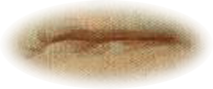
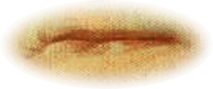
MN: face_mashup_2 color and image contrast adjustments

Changed region(s): [[0.1127, 0.2022, 0.9014, 0.809], [0.8169, 0.3596, 0.8451, 0.382]]

diff --git a/src/demo/face_mashup_2.js b/src/demo/face_mashup_2.js
@@ -49,8 +49,6 @@ var imgNamesEyesRight = [
   'washington_eye_right_fuzzy.png',
   'washington_eye_right_round.png',
   'washington_eye_right_square.png',
-  // 'yoda_eye_right.png',
-  // 'yoda_eye_right_fuzzy.png'
 ];
 
 var imgNamesEyesLeft = [
@@ -64,8 +62,6 @@ var imgNamesEyesLeft = [
   'washington_eye_left_fuzzy.png',
   'washington_eye_left_round.png',
   'washington_eye_left_square.png',
-  // 'yoda_eye_left_fuzzy.png',
-  // 'yoda_left_eye.png'
 ];
 
 var imgNamesMouths = [
@@ -74,10 +70,11 @@ var imgNamesMouths = [
   'marilyn_mouth.png',
   'marilyn_mouth_round.png',
   'marilyn_mouth_square.png',
+  'mona_mouth_fuzzy.png',
+  'mona_mouth_square.png',
   'washington_mouth_fuzzy.png',
   'washington_mouth_round.png',
   'washington_mouth_square.png',
-  // 'yoda_mouth_circle.png'
 ];
 
 var imgNamesNoses = [
@@ -87,12 +84,10 @@ var imgNamesNoses = [
   "marilyn_nose_fuzzy.png",
   "mona_nose_fuzzy.png",
   "mona_nose_square.png",
-  "nixon_nose.png",
-  "nixon_nose_fuzzy.png",
+  // "nixon_nose.png",
+  // "nixon_nose_fuzzy.png",
   "washington_nose.png",
   "washington_nose_fuzzy.png",
-  // "yoda_nose.png",
-  // "yoda_nose_fuzzy.png"
 ];
 
 var imgNamesHair = [
@@ -100,7 +95,7 @@ var imgNamesHair = [
   "marilyn_hair.png",
   "mona_hair.png",
   "washington_hair.png",
-  "chaplin_hat.png"
+  "chaplin_hat.png",
 ];
 
 //-----------------------
@@ -217,11 +212,12 @@ function borderWidth (canvasWidth) {
 function makeFamousFace (props = {w:1000, h:1500}) {
   var colors = ['#3f2', '#f45', 'pink', 'cyan', '#ff3', '#0f4', '#332', '#004', 'orange', '#062'];
   // var coolColors = ['#32f', '#04c', '#508', '#39e', '#0f4', '#a0a', '#004', '#0d2'];
-  var blueColors = ['#32f', '#04f', '#50e', '#39e', '#09f', '#22f', '#004', '#00f'];
+  var blueColors = ['#30f', '#04f', '#50e', '#36e', '#09f', '#22f', '#00c', '#00f'];
   var overallBGColor = Rand.randItem(colors);
   var highlightFGColor = tinycolor(overallBGColor).brighten(10).lighten(10).toString();
   var highlightFGColor2 = tinycolor(overallBGColor).brighten(10).saturate(25).toString();
-  var smallJiggleSize = props.w * 0.028;
+  var smallJiggleSize = props.w * 0.035;
+  var bigJiggleSize = props.w * 0.15;
   var bounds = Box.make({
     x: props.x, 
     y: props.y, 
@@ -305,8 +301,8 @@ function makeFamousFace (props = {w:1000, h:1500}) {
   var mouthW = props.w * 0.5;
   var mouthH = props.h * 0.2;
   var centerX = props.w * 0.5;
-  var eyeR = Box.make({x:eyeRX, y:eyeY, w:eyeW, h:mouthH, backgroundColor:'green', renderOnCenter:true});
-  var eyeL = Box.make({x:eyeLX, y:eyeY, w:eyeW, h:mouthH, backgroundColor:'red', renderOnCenter:true});
+  var eyeR = Box.make({x:eyeRX, y:eyeY, w:eyeW, h:mouthH, backgroundColor:'#00b900', renderOnCenter:true});
+  var eyeL = Box.make({x:eyeLX, y:eyeY, w:eyeW, h:mouthH, backgroundColor:'#ff1a1a', renderOnCenter:true});
   var nose = Box.make({x:centerX, y:noseY, w:noseW, h:noseH, backgroundColor:'magenta', renderOnCenter:true});
   var mouth = Box.make({x:centerX, y:mouthY, w:mouthW, h:mouthH, backgroundColor:highlightFGColor, renderOnCenter:true});
   var hair = Box.make({x:props.w * -0.02, y:props.h * 0.02, w:props.w * 1.1, h:props.h * 0.75, backgroundColor:Rand.randItem(blueColors), renderOnCenter:false});
@@ -314,7 +310,7 @@ function makeFamousFace (props = {w:1000, h:1500}) {
   // load face part images
   var mouths = makeImagesForBox(imgNamesMouths, mouth.getDimensions(), {renderOnCenter: true});
   var noses = makeImagesForBox(imgNamesNoses, nose.getDimensions(), {renderOnCenter: true});
-  var eyesL = makeImagesForBox(imgNamesEyesLeft, eyeL.getDimensions(), {renderOnCenter: true});
+  var eyesL = makeImagesForBox(imgNamesEyesLeft, eyeL.getDimensions(), {jiggle: bigJiggleSize, renderOnCenter: true});
   var eyesR = makeImagesForBox(imgNamesEyesRight, eyeR.getDimensions(), {renderOnCenter: true});
   var hairs = makeImagesForBox(imgNamesHair, hair.getDimensions(), {jiggle: smallJiggleSize, renderOnCenter: false});
 
